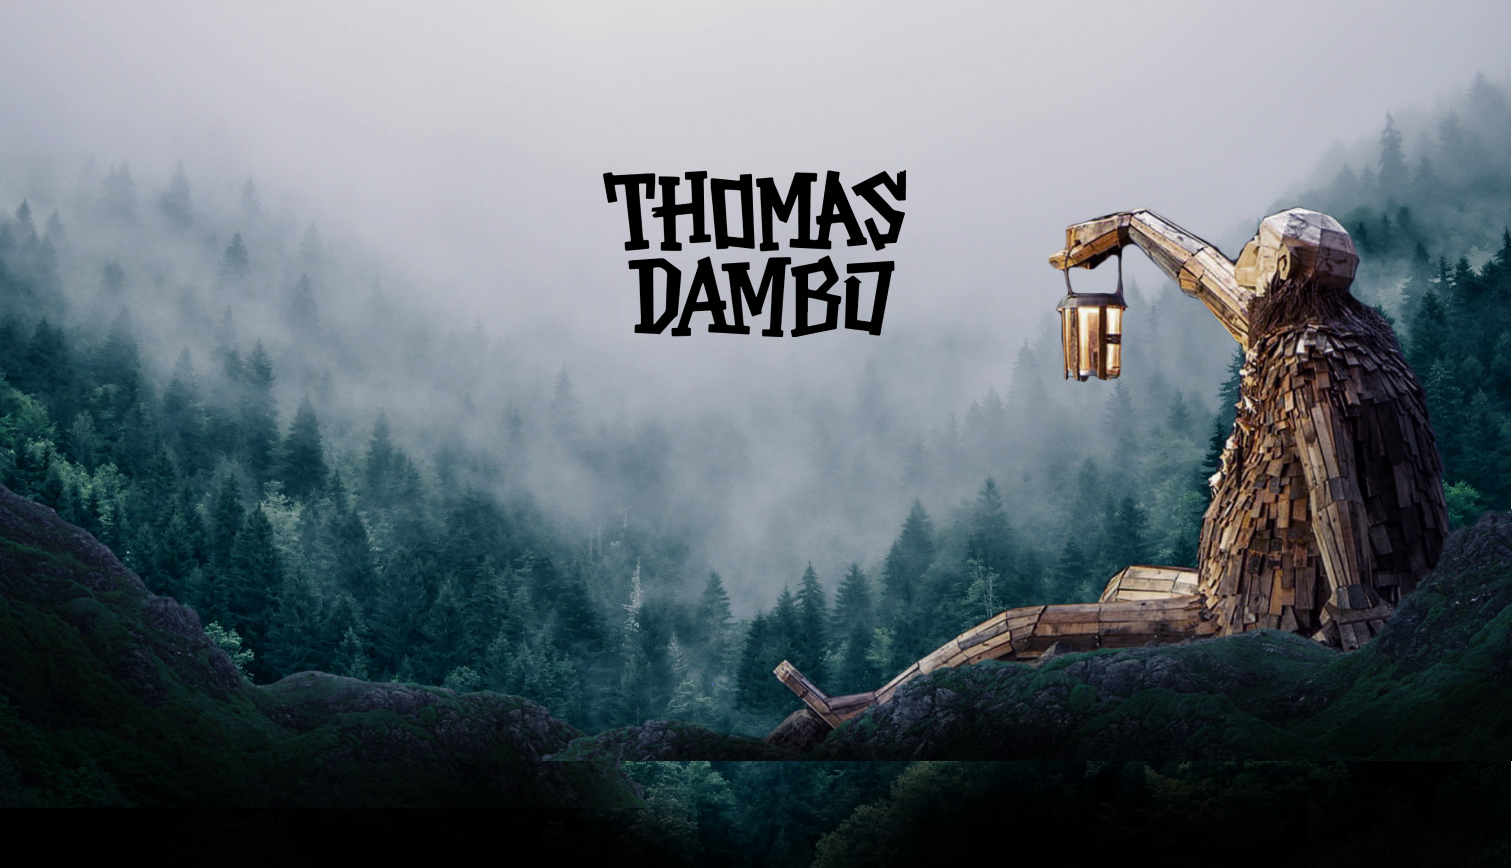
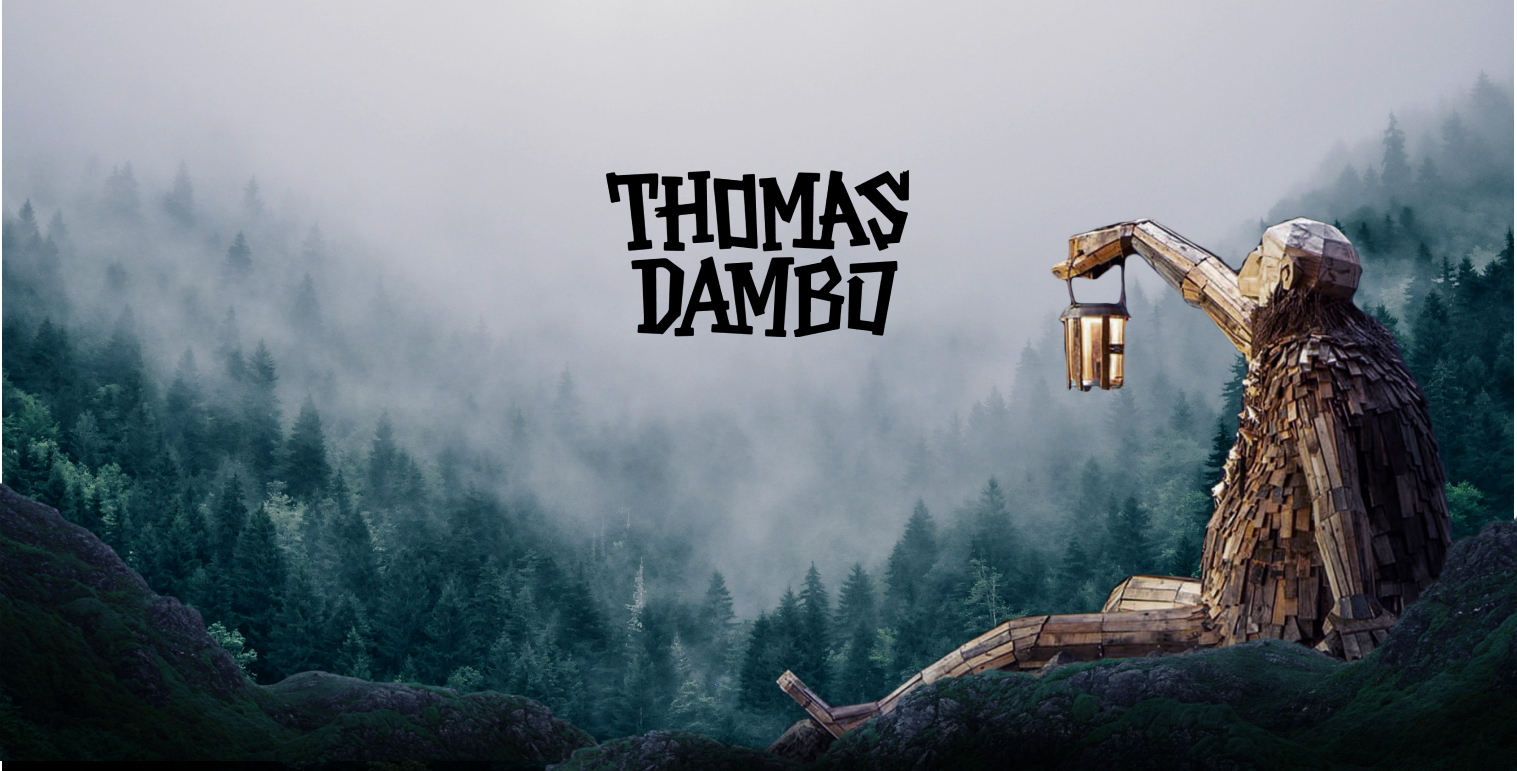
fix 5

diff --git a/css/landing.css b/css/landing.css
@@ -77,7 +77,14 @@ html {
 }
 
 /* ////////////////////////////HERDER//////////////////////////// */
-
+header {
+  height: 100vh;
+  width: 100vw;
+}
+header div img {
+  width: 100%;
+  height: 100%;
+}
 /* ////////////////////////////TITLE//////////////////////////// */
 #title {
   background-image: url("../img/bg_small_ractangle.png");
